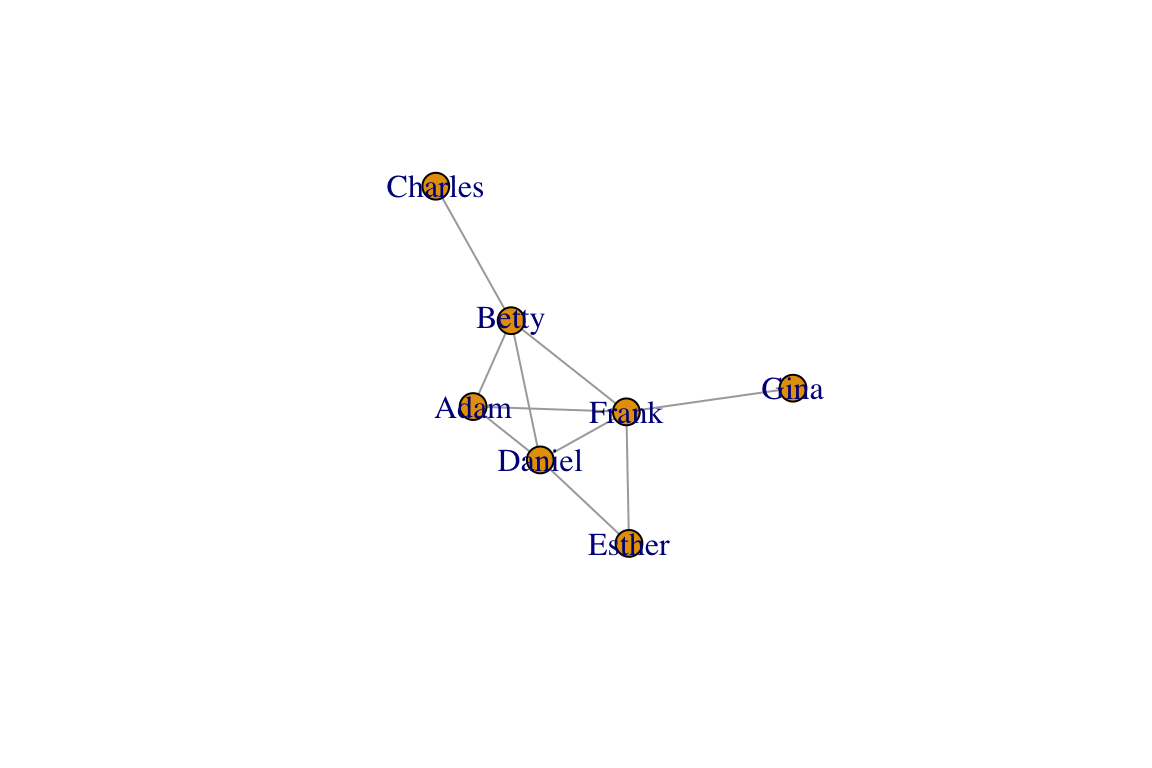
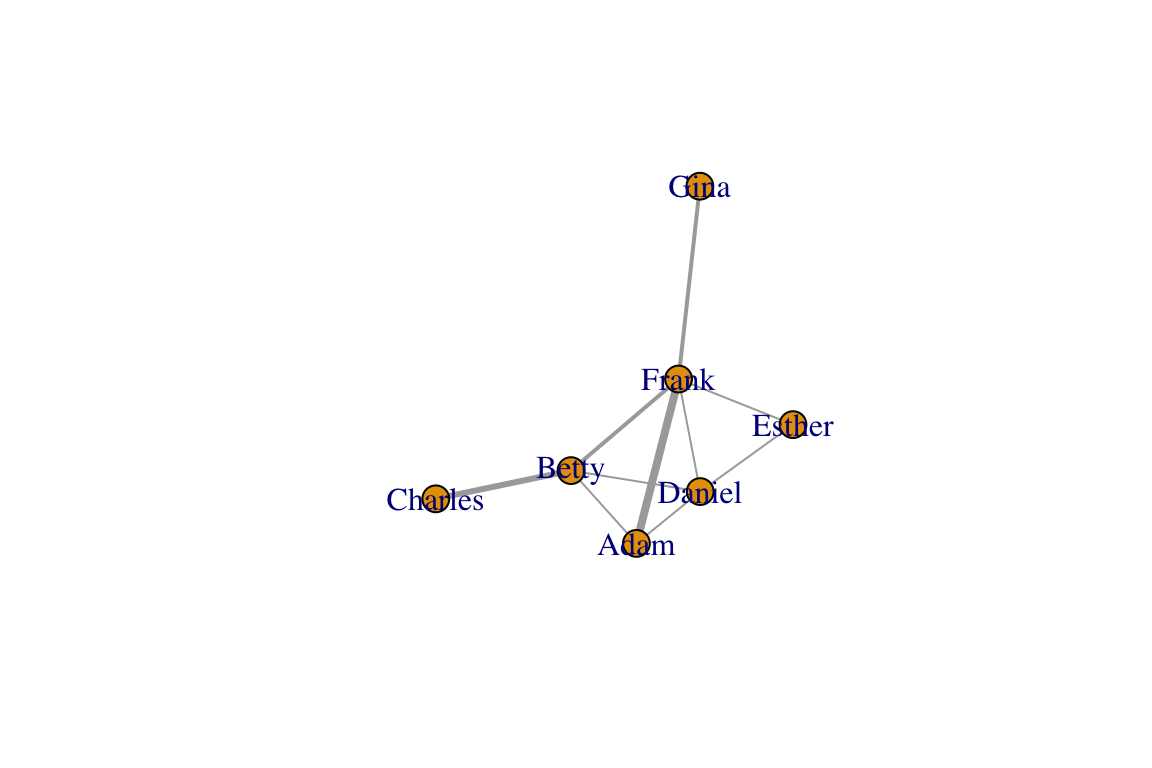
update plots

diff --git a/02_dataformats.html b/02_dataformats.html
@@ -212,8 +212,8 @@ $(document).ready(function () {
 <li><a href="#weighted-networks">2.2.1 Weighted networks</a></li>
 </ul></li>
 <li><a href="#going-from-data-to-networks">2.3 Going from Data to Networks</a><ul>
-<li><a href="#creating-a-network-from-your-adjacency-matrix">2.3.1 Creating a network from your adjacency matrix</a></li>
-<li><a href="#creating-a-network-from-your-edge-list">2.3.2 Creating a network from your edge list</a></li>
+<li><a href="#creating-a-network-from-your-edge-list">2.3.1 Creating a network from your edge list</a></li>
+<li><a href="#creating-a-network-from-your-adjacency-matrix">2.3.2 Creating a network from your adjacency matrix</a></li>
 </ul></li>
 </ul>
 </div>
@@ -407,26 +407,8 @@ plot(dir.g)</code></pre>
 </div>
 <div id="going-from-data-to-networks" class="section level2">
 <h2>2.3 Going from Data to Networks</h2>
-<div id="creating-a-network-from-your-adjacency-matrix" class="section level3">
-<h3>2.3.1 Creating a network from your adjacency matrix</h3>
-<p>Importing an adjacency matrix written in .csv format is just slightly trickier. This is because you want R to know that first row is a header AND the first row contains row names rather than data. You also want R to recognize this data as a “matrix object”. We can use just one line of code to do this:</p>
-<pre class="r"><code>am=as.matrix(read.csv(&quot;https://dshizuka.github.io/network2018/NetworkWorkshop_SampleData/sample_adjmatrix.csv&quot;, header=T, row.names=1))
-am</code></pre>
-<pre><code>##         Adam Betty Charles Daniel Esther Frank Gina
-## Adam       0     1       0      1      0     4    0
-## Betty      1     0       3      1      0     2    0
-## Charles    0     3       0      0      0     0    0
-## Daniel     1     1       0      0      1     1    0
-## Esther     0     0       0      1      0     1    0
-## Frank      4     2       0      1      1     0    2
-## Gina       0     0       0      0      0     2    0</code></pre>
-<p>Now we have our adjacency matrix, and we are ready to convert this into an igraph object! Note that this is a <em>weighted adjacency matrix</em>. Note that we are going to add an argument <code>weighted=T</code> to indicate that the edges have weights. The results from the code below should look the same as above.</p>
-<pre class="r"><code>g2=graph_from_adjacency_matrix(am, mode=&quot;undirected&quot;, weighted=T)
-plot(g2, edge.width=E(g)$weight)</code></pre>
-<p><img src="02_dataformats_files/figure-html/unnamed-chunk-12-1.png" width="576" /></p>
-</div>
 <div id="creating-a-network-from-your-edge-list" class="section level3">
-<h3>2.3.2 Creating a network from your edge list</h3>
+<h3>2.3.1 Creating a network from your edge list</h3>
 <p>Creating a network from an edgelist that you have created is easy. First, import the .csv file called “sample_edgelist.csv”.</p>
 <pre class="r"><code> edge.dat=read.csv(&quot;https://dshizuka.github.io/network2018/NetworkWorkshop_SampleData/sample_edgelist.csv&quot;) 
 edge.dat</code></pre>
@@ -451,6 +433,24 @@ eg</code></pre>
 ##  [5] Betty --Daniel  Betty --Frank   Daniel--Esther  Daniel--Frank  
 ##  [9] Esther--Frank   Frank --Gina</code></pre>
 <pre class="r"><code>plot(eg, edge.width=E(eg)$weight)</code></pre>
+<p><img src="02_dataformats_files/figure-html/unnamed-chunk-12-1.png" width="576" /></p>
+</div>
+<div id="creating-a-network-from-your-adjacency-matrix" class="section level3">
+<h3>2.3.2 Creating a network from your adjacency matrix</h3>
+<p>Importing an adjacency matrix written in .csv format is just slightly trickier. This is because you want R to know that first row is a header AND the first row contains row names rather than data. You also want R to recognize this data as a “matrix object”. We can use just one line of code to do this:</p>
+<pre class="r"><code>am=as.matrix(read.csv(&quot;https://dshizuka.github.io/network2018/NetworkWorkshop_SampleData/sample_adjmatrix.csv&quot;, header=T, row.names=1))
+am</code></pre>
+<pre><code>##         Adam Betty Charles Daniel Esther Frank Gina
+## Adam       0     1       0      1      0     4    0
+## Betty      1     0       3      1      0     2    0
+## Charles    0     3       0      0      0     0    0
+## Daniel     1     1       0      0      1     1    0
+## Esther     0     0       0      1      0     1    0
+## Frank      4     2       0      1      1     0    2
+## Gina       0     0       0      0      0     2    0</code></pre>
+<p>Now we have our adjacency matrix, and we are ready to convert this into an igraph object! Note that this is a <em>weighted adjacency matrix</em>. Note that we are going to add an argument <code>weighted=T</code> to indicate that the edges have weights. The results from the code below should look the same as above.</p>
+<pre class="r"><code>ag=graph_from_adjacency_matrix(am, mode=&quot;undirected&quot;, weighted=T)
+plot(ag, edge.width=E(ag)$weight)</code></pre>
 <p><img src="02_dataformats_files/figure-html/unnamed-chunk-14-1.png" width="576" /></p>
 </div>
 </div>

diff --git a/03_plots.html b/03_plots.html
@@ -12,7 +12,7 @@
 <meta name="author" content="Dai Shizuka" />
 
 
-<title>03_Plotting Basics</title>
+<title></title>
 
 <script src="site_libs/jquery-1.11.3/jquery.min.js"></script>
 <meta name="viewport" content="width=device-width, initial-scale=1" />
@@ -197,7 +197,9 @@ $(document).ready(function () {
 
 
 
-<h1 class="title toc-ignore">03_Plotting Basics</h1>
+<h1 class="title toc-ignore"><ol start="3" style="list-style-type: decimal">
+<li>Plotting Basics</li>
+</ol></h1>
 <h4 class="author"><em>Dai Shizuka</em></h4>
 
 </div>
@@ -211,7 +213,32 @@ $(document).ready(function () {
 <div id="network-plots-layouts-and-attributes" class="section level2">
 <h2>3.1 Network Plots: Layouts and Attributes</h2>
 <p>Researchers often use network analysis as a tool for displaying complex data. But you should also know that one must be very careful not to over-interpret network plots. This is because there is no single rule for how to display networks, and network plots can obscure interesting patterns or be misleading if the layout format does not match the purpose. With that said, network plots can be a useful and powerful way to get your message across if used appropriately.</p>
-<p>The plotting function in igraph comes with a lot of different options. We have used several arguments already, but if you want to explore the ins and outs of plotting in R, look up <code>?igraph.plotting</code>. I also highly recommend my favorite web tutorial on static and dynamic network visualization by <a href="http://kateto.net/network-visualization">Katya Ognyanova</a>.</p>
+<p>The plotting function in igraph comes with a lot of different options. We have used several arguments already, but if you want to explore the ins and outs of plotting in R, look up <code>?igraph.plotting</code>. I also highly recommend my favorite web tutorial on static and dynamic network visualization by <a href="http://kateto.net/network-visualization">Katya Ognyanova</a>. This site is going to cover the very basics, but I highly recommend her site when you feel ready to do more.</p>
+<p>Here, we will deal with two main topics: (1) layout functions and how to merge network data and (2) attribute data to illustrate the network.</p>
+<p>3.1.1 Layout</p>
+<p>Let’s start where we left of <a href="02_dataformats.html">Lesson 2</a> and make a network out of a fictional adjacency matrix:</p>
+<pre class="r"><code>library(igraph)
+am=as.matrix(read.csv(&quot;https://dshizuka.github.io/network2018/NetworkWorkshop_SampleData/sample_adjmatrix.csv&quot;, header=T, row.names=1))
+am</code></pre>
+<pre><code>##         Adam Betty Charles Daniel Esther Frank Gina
+## Adam       0     1       0      1      0     4    0
+## Betty      1     0       3      1      0     2    0
+## Charles    0     3       0      0      0     0    0
+## Daniel     1     1       0      0      1     1    0
+## Esther     0     0       0      1      0     1    0
+## Frank      4     2       0      1      1     0    2
+## Gina       0     0       0      0      0     2    0</code></pre>
+<pre class="r"><code>ag=graph_from_adjacency_matrix(am, mode=&quot;undirected&quot;, weighted=T)
+plot(ag, edge.width=E(ag)$weight)</code></pre>
+<p><img src="03_plots_files/figure-html/unnamed-chunk-1-1.png" width="576" /></p>
+<p>There are several graph layout functions in igraph. You can use these layout functions inside the <code>plot()</code> function, or you can specify the layout as a separate two-column matrix. For example, let’s say you want to arrange the network as a circle:</p>
+<pre class="r"><code>#option 1
+plot(ag, layout=layout_in_circle(ag))
+
+#option 2:
+l=layout_in_circle(ag) 
+plot(ag, layout=l)</code></pre>
+<p><img src="03_plots_files/figure-html/unnamed-chunk-2-1.png" width="576" /></p>
 </div>
 
 
